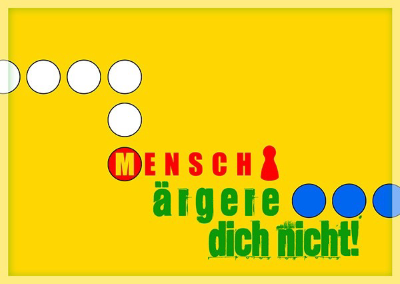
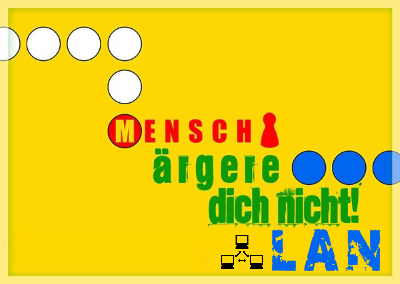
Aapassung Titel und Bild (+LAN)

Changed region(s): [[0.0, 0.0845, 1.0, 0.9577]]

diff --git a/src/vsys/projekt/maednlan/GUI.java b/src/vsys/projekt/maednlan/GUI.java
@@ -93,7 +93,7 @@ public class GUI {
 		shlMaedn.setBackground(SWTResourceManager.getColor(SWT.COLOR_WHITE));
 		shlMaedn.setImage(SWTResourceManager.getImage("img\\FigurRot.png"));
 		shlMaedn.setSize(808, 851);
-		shlMaedn.setText("MAEDN");
+		shlMaedn.setText("MAEDNLAN");
 
 		textfeld = new Text(shlMaedn, SWT.BORDER); //Statustextfeld
 		textfeld.setBounds(0, 801, 802, 21);
